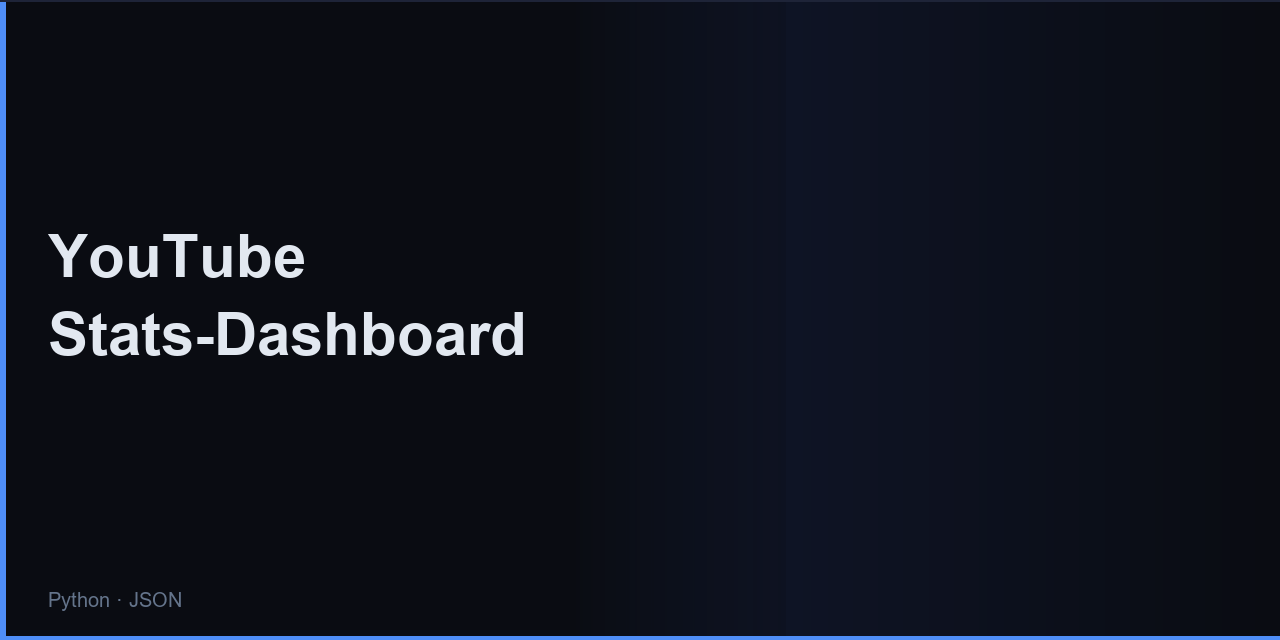
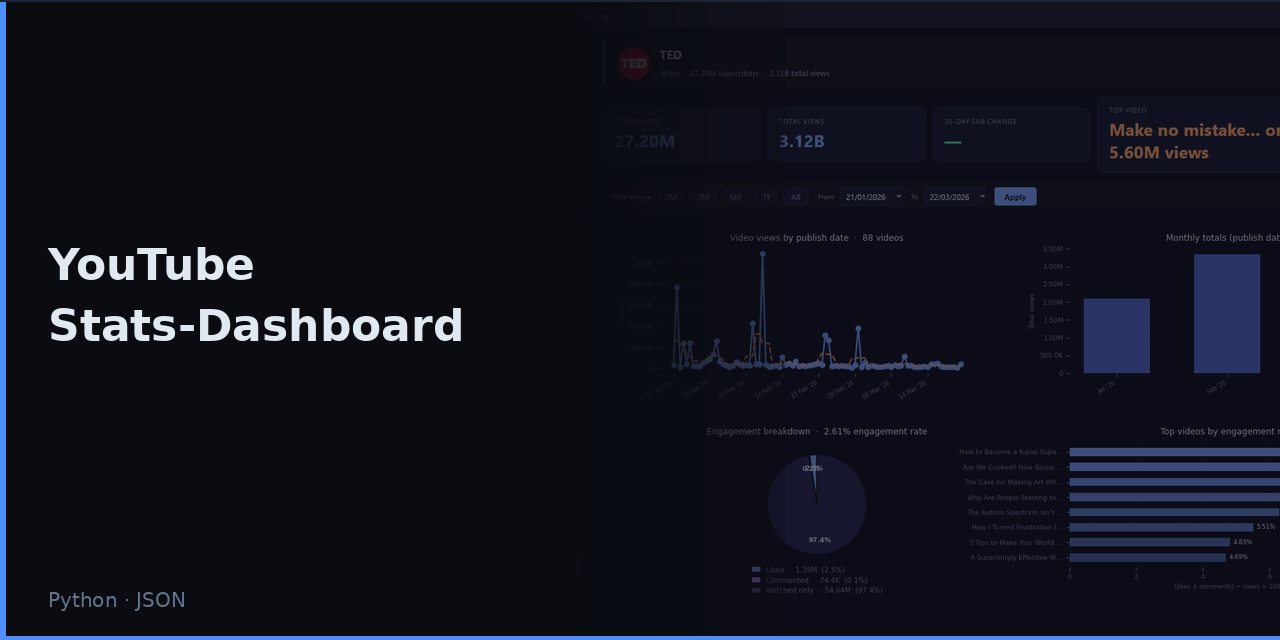
Full rebuild in to shareable product for additional YouTube insight. Added repo card, screenshots, and update README

diff --git a/README.md b/README.md
@@ -1,6 +1,6 @@
-# YouTube-Stats-Dashboard
+# YouTube Stats Dashboard
 
-> Local channel intelligence tool that fetches full view-count history from the YouTube Data API and gives creators a persistent, exportable performance record.
+> Multi-channel YouTube analytics desktop app — persistent snapshots, sortable video tables, growth charts, and engagement breakdowns. All local, no third-party dashboard.
 
 ![YouTube-Stats-Dashboard](repo-card.png)
 
@@ -8,26 +8,71 @@ Built by [Naadir](https://github.com/Naadir-Dev-Portfolio)
 
 ---
 
+## Screenshots
+
+![Dashboard](screenshots/screenshot.png)
+
+![Videos](screenshots/screenshot2.png)
+
+---
+
 ## Overview
 
-YouTube Analytics locks your channel data behind its platform — no bulk export, no historical snapshots you can query yourself, no way to compare performance across any window you define. This tool connects directly to the YouTube Data API, resolves any channel URL format to a canonical ID, fetches the full upload history with batched requests and automatic pagination, and renders the data locally as an interactive chart with moving average overlay. The result is a persistent, exportable record of channel performance — complete with formatted Excel output — that YouTube's own interface deliberately won't give you.
+YouTube Analytics is opaque, time-limited, and locked to the browser. This tool connects directly to the YouTube Data API v3, stores everything in a local SQLite database, and gives you a proper desktop interface for tracking channel growth over time. Add multiple channels, snapshot subscriber and view counts on demand, drill into per-video engagement rates, and review historical trends — all without touching the YouTube website.
+
+---
+
+## Architecture
+
+```
+YouTube-Stats-Dashboard/
+├── main.py                    # Entry point, first-launch setup dialog
+├── requirements.txt
+│
+├── app/
+│   ├── config.py              # Paths, constants, api_config.json I/O
+│   │
+│   ├── api/
+│   │   ├── youtube_client.py  # YouTube Data API v3 wrapper (quota-aware)
+│   │   └── quota_tracker.py   # Daily quota tracker (10,000 units/day)
+│   │
+│   ├── db/
+│   │   ├── database.py        # SQLite connection and schema migrations
+│   │   └── models.py          # Data access layer (channels, snapshots, videos)
+│   │
+│   ├── workers/
+│   │   └── fetch_worker.py    # QThread workers — non-blocking API calls
+│   │
+│   └── ui/
+│       ├── chart_utils.py     # Shared matplotlib figure factory (Midnight Indigo theme)
+│       ├── dashboard_tab.py   # Channel sidebar, stat cards, date filter, 2×2 chart grid
+│       ├── videos_tab.py      # Sortable video table with detail panel
+│       └── settings_tab.py    # API key entry, quota display
+│
+└── data/                      # Auto-created at runtime (gitignored)
+    ├── youtube_stats.db
+    └── quota.json
+```
 
 ---
 
 ## Features
 
-- Resolves any YouTube channel URL format (@handle, /c/, /channel/, /user/) to a canonical channel ID without manual lookup
-- Fetches up to the full upload history with batched API calls (50 videos per request) and automatic pagination handling
-- Renders an interactive view-count chart with a dynamic moving average overlay, zoom, and pan
-- Exports per-video stats (title, upload date, views) to a formatted .xlsx file with an embedded chart
-- Runs API calls in a background thread with real-time progress logging, keeping the UI responsive during long fetches
-- Retries failed requests automatically with SSL error handling (up to 3 attempts per call)
+**Dashboard** — channel sidebar with add/remove controls, stat cards (subscribers, total views, 30-day delta, top video), date range filter with presets, and a 2×2 chart grid: video views line chart, monthly publish activity, engagement breakdown pie, and top videos by engagement rate. Hover tooltips on all charts.
+
+**Videos tab** — full sortable/filterable table of every tracked video (title, published date, views, likes, comments, engagement rate, duration); clicking a row opens a detail panel
+
+**Settings tab** — API key storage (gitignored `api_config.json`), live quota meter, data directory info
+
+**Data layer** — SQLite with three tables (`channels`, `channel_snapshots`, `videos`); quota guard blocks fetches above 8,000 units/day
+
+**Non-blocking** — all API calls run in `QThread` workers; status bar shows live progress; UI never freezes
 
 ---
 
 ## Tech Stack
 
-`Python` · `PyQt6` · `YouTube Data API v3` · `pandas` · `openpyxl`
+`Python` · `PyQt6` · `YouTube Data API v3` · `matplotlib` · `SQLite`
 
 ---
 
@@ -38,14 +83,26 @@ pip install -r requirements.txt
 python main.py
 ```
 
-Add your YouTube Data API v3 key to `api.txt`:
+On first launch you will be prompted for a YouTube Data API v3 key. Get one from [Google Cloud Console](https://console.cloud.google.com/) under **APIs & Services → Credentials**. Enable the **YouTube Data API v3** on the same project.
 
-```
-api.txt = your YouTube Data API v3 key from Google Cloud Console
-```
+The key is saved to `api_config.json` (gitignored). You can update it any time from the Settings tab.
 
 ---
 
-> API key placeholder in `api.txt` — replace with your own key from Google Cloud Console before running.
+## Database schema
 
-<sub>Python</sub>
+| Table | Key columns |
+|---|---|
+| `channels` | `channel_id`, `title`, `handle`, `thumbnail_url` |
+| `channel_snapshots` | `channel_id`, `fetched_at`, `subscribers`, `total_views`, `video_count` |
+| `videos` | `channel_id`, `video_id`, `title`, `published_at`, `views`, `likes`, `comments`, `duration_seconds` |
+
+---
+
+## API quota
+
+The YouTube Data API has a 10,000 unit/day quota. Each channel fetch costs roughly `1 + ceil(videos/50) + ceil(videos/50)` units. The app tracks daily usage in `data/quota.json`, warns at 8,000 units, and blocks further fetches to protect the budget. The counter resets automatically at the start of each new day.
+
+---
+
+<sub>Python · Desktop</sub>
